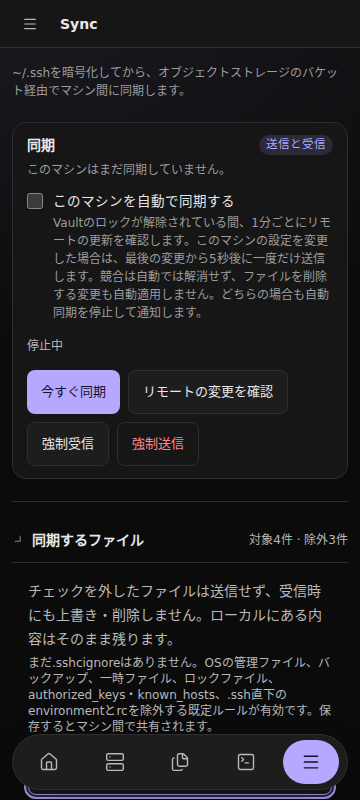
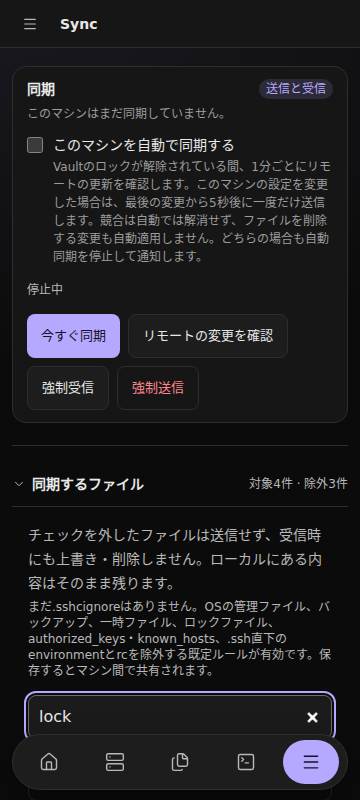
docs: v0.70.0 に合わせてドキュメントの画像を撮り直し、保存の帯と知らせの説明を足す (#890)
* test(e2e): ドキュメントの画像を撮るときに、マシンの状態と動きで写りがぶれないようにする

scripts/capture-doc-screenshots.sh で撮った画像に、撮ったマシンの名前・メモリ・起動からの時間（Home の下の
マシンの状態の行）が写り、メニューや短い知らせが出る途中・消える途中で写っていた。

- SSHC_VISUAL_DIR があるときだけ、/api/v1/terminal/machine を決まった値（workstation）で答え、「動きを減らす」で
  開く（e2e/support/environment.ts の prepareForScreenshots）。ふだんの e2e は変わらない。
- スマホの Home は、読み込み中の枠ではなく、読み終えてから撮る。
- ポート転送・認証情報・OTP の画像は、保存したときの短い知らせが消えてから撮る。ポート転送はタブの行を上の端に
  戻してから撮る。
- スマホの転送マネージャーは、アップロードを積むと自分で開くので、開いていないときだけ［展開］を押す（撮影の
  ときだけ通る手順が、これで落ちていた）。

* docs: v0.70.0 に合わせてドキュメントの画像を撮り直し、保存の帯と知らせの説明を足す

- 画像30枚（pages/public/images と docs/images/home.png）を、scripts/capture-doc-screenshots.sh で今の画面から
  撮り直した。前の画像は 2026-11-06 のもので、v0.69.0 のリモートセッションの枠と名札、Home の背景、v0.70.0 の
  知らせのカード・保存の帯・「〇〇中…」のボタンが写っていなかった。
- 保存の帯の説明は設定のページにしか無かったので、接続先の編集（SSH Config の詳細のタブとファイル、グループの
  編集）、VPN、Snippets、Sync の除外のページにも1文ずつ足した（日本語と英語）。
- トラブルシューティングに「画面に出る知らせ」の節を足し、失敗の知らせを［×］で消せること、済んだ操作の結果は
  画面の下に短く出ること、コピーのボタンが「✓ コピーしました」に替わることを書いた（日本語と英語）。

* docs: 画面に出る知らせの節の［×］と「✓ コピーしました」を、画面の文言の決まりに合わせる

pages の［…］「…」は今の画面の文言と同じでなければならない（pagesQuotedLabels.test.ts）。×は括弧に入れずほかのページと同じく「右上の×」と書き、コピーは画面の文言「コピーしました」だけを括弧に入れる。

diff --git a/web/e2e/support/environment.ts b/web/e2e/support/environment.ts
@@ -219,6 +219,7 @@ export const test = base.extend<{ installation: Installation }>({
     await page.route(/\/api\/v1\/update(?:\/check)?$/, (route) => route.fulfill({
       json: { current, available: false, canUpdate: false },
     }));
+    if (process.env.SSHC_VISUAL_DIR !== undefined) await prepareForScreenshots(page);
     await use(page);
   },
   installation: async ({}, use) => {
@@ -254,6 +255,16 @@ export const test = base.extend<{ installation: Installation }>({
     });
   },
 });
+
+// prepareForScreenshots は、ドキュメントなどに載せる画像を撮るときだけ使う。
+// - 撮ったマシンの名前・メモリ・起動からの時間が画像に写らないよう、Home などのマシンの状態を決まった値で答える。
+// - メニューや知らせが出る途中・消える途中で写らないよう、動きを減らす（アプリは OS の「動きを減らす」に従う）。
+async function prepareForScreenshots(page: Page): Promise<void> {
+  await page.emulateMedia({ reducedMotion: "reduce" });
+  await page.route("**/api/v1/terminal/machine", (route) => route.fulfill({
+    json: { hostname: "workstation", os: "linux", uptimeSeconds: 3 * 86_400, cpuPercent: 12, memoryTotalBytes: 32 * 2 ** 30, memoryUsedBytes: 9 * 2 ** 30 },
+  }));
+}
 
 export const masterPassword = "an end to end master password";
 

diff --git a/web/e2e/secrets.spec.ts b/web/e2e/secrets.spec.ts
@@ -64,6 +64,8 @@ test("gives one named secret to two hosts and writes neither name into the file"
 
   if (process.env.SSHC_VISUAL_DIR !== undefined) {
     await page.setViewportSize({ width: 1280, height: 720 });
+    // 保存したときの短い知らせが消えてから撮る。
+    await expect(page.getByText("Saved your changes.")).toBeHidden({ timeout: 10_000 });
     await page.screenshot({ path: `${process.env.SSHC_VISUAL_DIR}/vault-account-passwords.png`, fullPage: true });
   }
 
@@ -318,6 +320,8 @@ test("lists saved one-time passwords with their current codes in both languages"
   if (process.env.SSHC_VISUAL_DIR !== undefined) {
     await page.setViewportSize({ width: 1280, height: 720 });
     await page.evaluate(() => window.scrollTo(0, 0));
+    // 保存したときの短い知らせが消えてから撮る。
+    await expect(page.getByText("Saved your changes.")).toBeHidden({ timeout: 10_000 });
     await page.screenshot({ path: `${process.env.SSHC_VISUAL_DIR}/otp-desktop-en.png` });
     await page.evaluate(() => window.localStorage.setItem("sshc.language", "ja"));
     await page.reload();

diff --git a/web/e2e/sftp-transfer.spec.ts b/web/e2e/sftp-transfer.spec.ts
@@ -308,8 +308,9 @@ test("keeps a chunked SFTP upload visible while another section is open", async 
     });
     await expect(page.getByText(/Upload failed: broken\.bin/)).toBeVisible();
     await changeDisplayLanguage(page, "ja");
-    await page.getByRole("button", { name: "転送マネージャーを展開" }).click();
+    // スマホの幅では、アップロードを積むと転送マネージャーが開く。閉じているときだけ開く。
     const mobileTransferManager = page.getByRole("dialog", { name: "転送マネージャー" });
+    if (!(await mobileTransferManager.isVisible())) await page.getByRole("button", { name: "転送マネージャーを展開" }).click();
     await expect(mobileTransferManager).toBeVisible();
     await expect(mobileTransferManager.getByRole("separator")).toHaveCount(0);
     await expect(mobileTransferManager.getByText("失敗", { exact: true })).toBeVisible();

diff --git a/web/e2e/connections.spec.ts b/web/e2e/connections.spec.ts
@@ -127,6 +127,9 @@ test("adds Local, reverse and SOCKS forwarding from the advanced tab", async ({ 
   expect(await installation.read("config")).toContain("RemoteForward 19080 127.0.0.1:3000");
 
   if (process.env.SSHC_VISUAL_DIR !== undefined) {
+    // 保存したときの短い知らせが消え、タブの行が上の端に見えてから撮る。
+    await expect(page.getByText("Saved your changes.")).toBeHidden({ timeout: 10_000 });
+    await page.getByRole("tablist").first().evaluate((tabs) => tabs.scrollIntoView({ block: "start" }));
     await page.screenshot({ path: `${process.env.SSHC_VISUAL_DIR}/port-forwarding-settings-desktop.png`, fullPage: true });
     await page.setViewportSize({ width: 390, height: 844 });
     await page.waitForTimeout(350);

diff --git a/web/e2e/narrow.spec.ts b/web/e2e/narrow.spec.ts
@@ -303,6 +303,8 @@ test("shows the version beside the brand in the mobile drawer", async ({ page, i
   });
   await openApplication(page, installation);
   if (process.env.SSHC_VISUAL_DIR !== undefined) {
+    // 読み込み中の枠ではなく、読み終えた Home を撮る。
+    await expect(page.locator("[data-loading-placeholder]")).toHaveCount(0);
     await page.screenshot({ path: `${process.env.SSHC_VISUAL_DIR}/sshc-v0.16.2-mobile-home-dark.png`, fullPage: true });
   }
   await page.getByRole("button", { name: "Navigation", exact: true }).click();

diff --git a/pages/en/connections/config.md b/pages/en/connections/config.md
@@ -16,7 +16,7 @@ The file box, and the box of **Edit as text** for a connection, are the same edi
 - Lines with a problem found when the configuration was read, such as a directive OpenSSH does not know, are marked; hovering the mark shows what the problem is.
 - `Tab` indents. To move the focus out of the editor with `Tab`, switch what it does with `Ctrl+M` (`Ctrl+Shift+M` on macOS).
 
-The editor shows loaded files and their Include relationships. UTF-8 text is written to a temporary file before replacement. Outside sshc-managed group markers, comments, blank lines, directive order, and unrelated blocks are preserved whenever possible. Do not edit the region between the line starting with `# >>> sshc groups` and `# <<< sshc groups` directly: its contents are replaced on the next save.
+The editor shows loaded files and their Include relationships. A changed file is saved from the same bar at the bottom of the screen. UTF-8 text is written to a temporary file before replacement. Outside sshc-managed group markers, comments, blank lines, directive order, and unrelated blocks are preserved whenever possible. Do not edit the region between the line starting with `# >>> sshc groups` and `# <<< sshc groups` directly: its contents are replaced on the next save.
 
 ### Files and directories
 
@@ -36,7 +36,7 @@ Renaming and deleting wait until unsaved edits are saved. Paths outside `~/.ssh`
 - **Display & terminal**: colour, OS icon, tags, display order, the terminal's palette and encoding, the VPN, and the other sshc-only behavior
 - **Resolved values**: effective values, sources, warnings
 
-Clearing a value removes its connection-specific directive and restores OpenSSH inheritance. Renaming, moving to a group, duplicating, the comment, the storage file, deleting, and **Edit as text** for the raw Host block are in the **…** at the top of the connection.
+Changing a value on a tab brings up a bar at the bottom of the screen with **Discard changes** and **Save**; nothing is written to the config file until it is saved (the same bar as [saving settings](/en/reference/settings#saving-settings)). Clearing a value removes its connection-specific directive and restores OpenSSH inheritance. Renaming, moving to a group, duplicating, the comment, the storage file, deleting, and **Edit as text** for the raw Host block are in the **…** at the top of the connection.
 
 ```sh
 sshc info <alias>

diff --git a/pages/en/connections/manage.md b/pages/en/connections/manage.md
@@ -45,7 +45,7 @@ Groups are folders: a group's connections live in `~/.ssh/connections/<group>/` 
 
 Move up and Move down change the order of groups at the same level. Hide in Connections works on a group with no connections directly in it. **Show hidden groups (〈count〉)** below the list brings hidden groups into view, and **Close hidden groups** hides them again. While shown they carry a **Hidden** mark, and **Stop hiding** in their **…** menu restores them.
 
-Selecting a group while no connection is open shows the group's editor on the right. Folders lists the files in the group's folder with their connections, its keys, and the `Include` line in `~/.ssh/config` that reads the folder. User name, Port, Key, and Jump host become defaults for the connections in that group; a value set on a connection itself wins.
+Selecting a group while no connection is open shows the group's editor on the right. Folders lists the files in the group's folder with their connections, its keys, and the `Include` line in `~/.ssh/config` that reads the folder. User name, Port, Key, and Jump host become defaults for the connections in that group; a value set on a connection itself wins. Changes in the group's editor are written only once they are saved from the bar at the bottom of the screen (the same bar as [saving settings](/en/reference/settings#saving-settings)).
 
 When a folder under `~/.ssh/connections/` has no `Include` line, or a group's folder is missing, Folder checks appears above the group column. Make it a group turns a folder without an `Include` line into a group.
 

diff --git a/pages/en/features/sync.md b/pages/en/features/sync.md
@@ -77,7 +77,7 @@ When automatic sync is enabled, sshc polls the remote once a minute while the Va
 
 ![Search and exclude files from synchronization](/images/sync-exclusions-desktop-en.png)
 
-Use Files to sync on the Sync screen to search current files and include or exclude them. The advanced editor manages `.sshcignore` at the root of `~/.ssh` with Gitignore-like patterns. These are globs rather than regular expressions: use `*`, `**`, `?`, `!` to re-include a path, and a leading `/` to anchor a rule at the root.
+Use Files to sync on the Sync screen to search current files and include or exclude them. The advanced editor manages `.sshcignore` at the root of `~/.ssh` with Gitignore-like patterns. Changes made either way are saved from the bar at the bottom of the screen (the same bar as [saving settings](/en/reference/settings#saving-settings)). These are globs rather than regular expressions: use `*`, `**`, `?`, `!` to re-include a path, and a leading `/` to anchor a rule at the root.
 
 The initial rules exclude common OS metadata, backup files, temporary files, lock files, SSH authorized keys and known host files, and the login environment and initialization script:
 

diff --git a/pages/terminal/commands.md b/pages/terminal/commands.md
@@ -11,7 +11,7 @@ description: コマンドを保存し、内容を確認してから1つのセッ
 
 ## スニペットを作る
 
-［Menu］→［Snippets］では、名前、コマンド、変数を保存できます。シークレット変数は通常の変数と分けて扱われ、スニペットライブラリそのものもVaultのマスターキーで暗号化されています。
+［Menu］→［Snippets］では、名前、コマンド、変数を保存できます。シークレット変数は通常の変数と分けて扱われ、スニペットライブラリそのものもVaultのマスターキーで暗号化されています。スニペットを変えた内容は、画面の下の帯の［保存］で保存します（[設定の保存](/reference/settings#設定の保存)と同じ帯です）。
 
 ## 実行前に確認する
 
